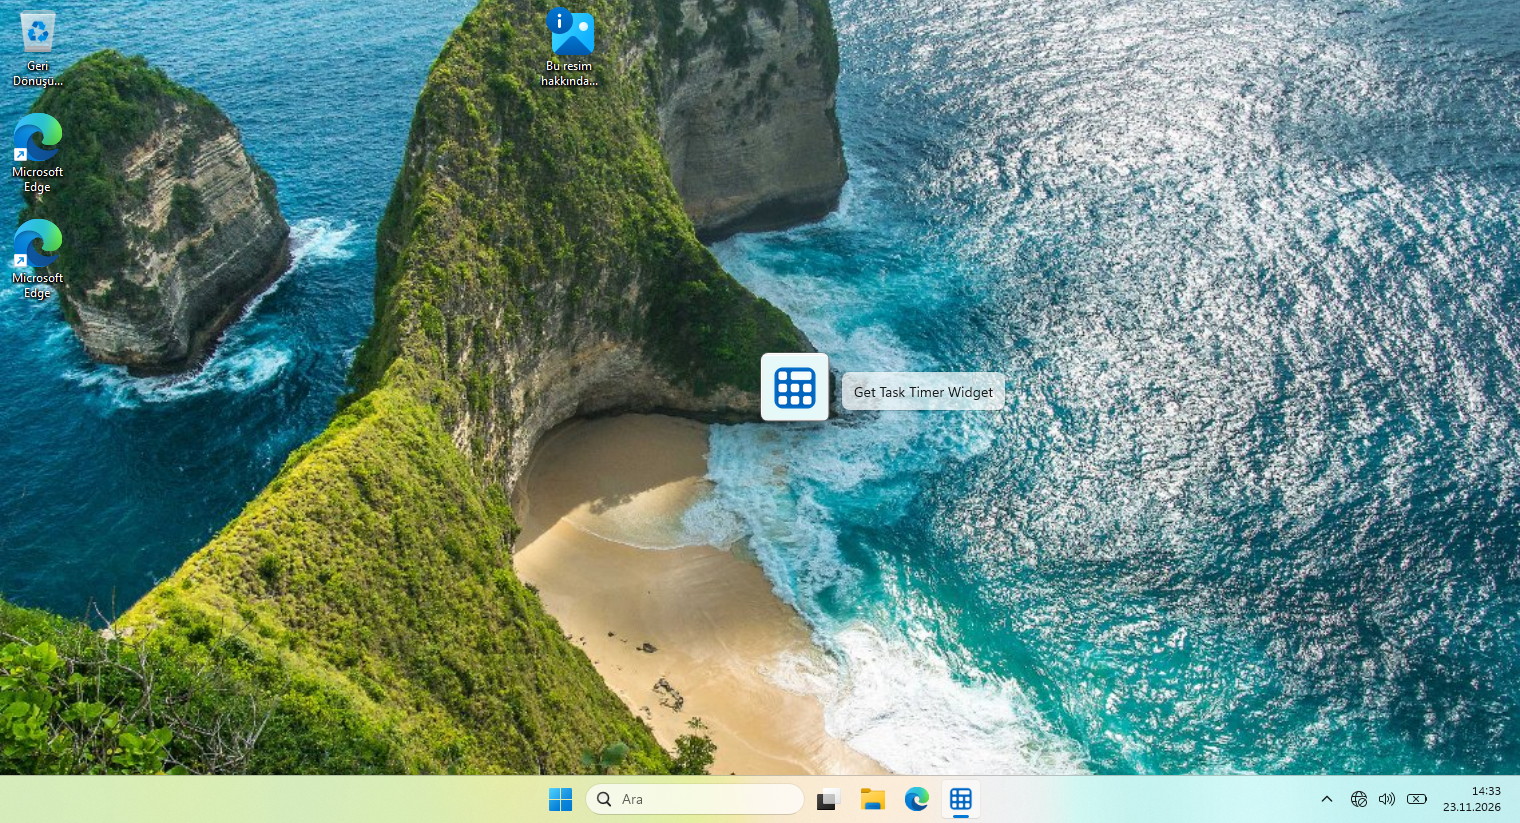
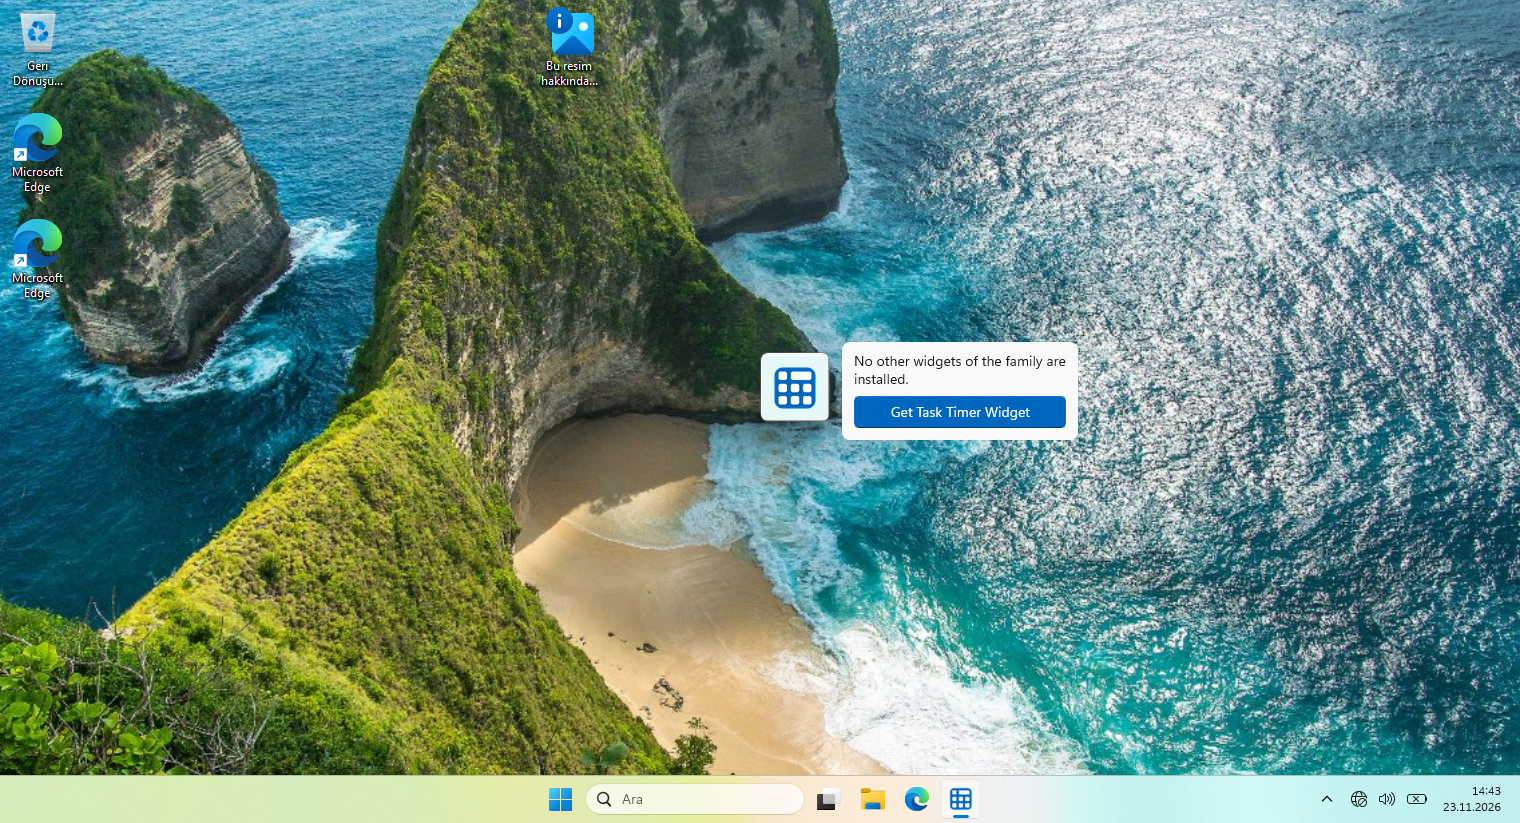
[MEW-5] Keep the 'no other family widget' notice and add a download button under it
Installed family widgets stay on the icon's sides; the notice next to the icon keeps its text and offers a 'Get <name>' button for each published family widget that is not installed.

Changed region(s): [[0.5566, 0.3949, 0.7112, 0.5468]]

diff --git a/src/MyEverythingWidget.App/MainWindow.xaml b/src/MyEverythingWidget.App/MainWindow.xaml
@@ -5,6 +5,7 @@
     xmlns:x="http://schemas.microsoft.com/winfx/2006/xaml"
     xmlns:l="using:MyEverythingWidget.App.Localization"
     xmlns:local="using:MyEverythingWidget.App"
+    xmlns:presentation="using:MyEverythingWidget.Presentation"
     xmlns:views="using:MyEverythingWidget.App.Views">
 
     <Window.SystemBackdrop>
@@ -247,14 +248,32 @@
                         Content="{x:Bind local:Bindings.SlotName(Family.Left), Mode=OneWay}"
                         Visibility="{x:Bind local:Bindings.VisibleWhenSlot(Family.Left), Mode=OneWay}"
                         Click="OnFamilySlotClicked" />
+                <!-- The notice that no other family widget is installed, with a download button for each published one. -->
                 <Border x:Name="FamilyEmptyCard"
                         Style="{StaticResource FamilySlotBorderStyle}"
-                        MaxWidth="220"
-                        Visibility="{x:Bind local:Bindings.VisibleUnless(Family.HasMembers), Mode=OneWay}">
-                    <TextBlock x:Name="FamilyEmpty"
-                               AutomationProperties.AutomationId="FamilyEmpty"
-                               Text="{l:Str Key=FamilyEmpty}"
-                               TextWrapping="Wrap" />
+                        MaxWidth="240"
+                        Visibility="{x:Bind local:Bindings.VisibleWhenAny(Family.ShowsNotice, Family.Downloads), Mode=OneWay}">
+                    <StackPanel Spacing="8">
+                        <TextBlock x:Name="FamilyEmpty"
+                                   AutomationProperties.AutomationId="FamilyEmpty"
+                                   Text="{l:Str Key=FamilyEmpty}"
+                                   TextWrapping="Wrap"
+                                   Visibility="{x:Bind local:Bindings.VisibleWhen(Family.ShowsNotice), Mode=OneWay}" />
+                        <ItemsControl ItemsSource="{x:Bind Family.Downloads, Mode=OneWay}">
+                            <ItemsControl.ItemTemplate>
+                                <DataTemplate x:DataType="presentation:FamilyOffer">
+                                    <Button Style="{StaticResource AccentButtonStyle}"
+                                            HorizontalAlignment="Stretch"
+                                            Margin="0,0,0,4"
+                                            Tag="{x:Bind MemberId}"
+                                            AutomationProperties.AutomationId="{x:Bind local:Bindings.DownloadId(MemberId)}"
+                                            AutomationProperties.Name="{x:Bind local:Bindings.DownloadText(Name)}"
+                                            Content="{x:Bind local:Bindings.DownloadText(Name)}"
+                                            Click="OnFamilyDownloadClicked" />
+                                </DataTemplate>
+                            </ItemsControl.ItemTemplate>
+                        </ItemsControl>
+                    </StackPanel>
                 </Border>
             </Canvas>
         </Popup>

diff --git a/src/MyEverythingWidget.Presentation/FamilyMenuViewModel.cs b/src/MyEverythingWidget.Presentation/FamilyMenuViewModel.cs
@@ -8,14 +8,19 @@ namespace MyEverythingWidget.Presentation;
 /// <param name="Edge">The side.</param>
 /// <param name="MemberId">The member's id.</param>
 /// <param name="Name">The member's display name.</param>
-/// <param name="IsInstalled">False when the slot offers the member for download.</param>
-public sealed record FamilySlot(Edge Edge, string MemberId, string Name, bool IsInstalled);
+public sealed record FamilySlot(Edge Edge, string MemberId, string Name);
+
+/// <summary>A published family widget that is not installed, offered for download.</summary>
+/// <param name="MemberId">The member's id.</param>
+/// <param name="Name">The member's display name.</param>
+public sealed record FamilyOffer(string MemberId, string Name);
 
 /// <summary>
 /// The compact icon's right-click menu (MEW-5): the installed widget family members on the icon's four sides.
 /// The list is read again every time the menu opens, so installed and removed members show up without a restart.
 /// Members opened from the menu follow the icon: they move with it and hide while it hides. Published family widgets
-/// that are not installed (<paramref name="known"/>) are offered for download on the edges left free.
+/// that are not installed (<paramref name="known"/>) are offered for download with a button under the notice that
+/// no other family widget is installed (T16).
 /// </summary>
 public sealed partial class FamilyMenuViewModel(
     IFamilyCatalog catalog,
@@ -25,7 +30,7 @@ public sealed partial class FamilyMenuViewModel(
 {
     private IReadOnlyDictionary<Edge, FamilyMember> _members = new Dictionary<Edge, FamilyMember>();
 
-    /// <summary>Store product ids of the members on the menu that are not installed.</summary>
+    /// <summary>Store product ids of the offered members that are not installed.</summary>
     private Dictionary<string, string> _toDownload = new(StringComparer.Ordinal);
 
     /// <summary>The members opened from the menu, and the side they were opened on.</summary>
@@ -51,6 +56,14 @@ public sealed partial class FamilyMenuViewModel(
     [ObservableProperty]
     public partial bool HasMembers { get; private set; }
 
+    /// <summary>The published family widgets that are not installed, each with a download button.</summary>
+    [ObservableProperty]
+    public partial IReadOnlyList<FamilyOffer> Downloads { get; private set; } = [];
+
+    /// <summary>Whether the notice card shows: no member is installed, or some can be downloaded.</summary>
+    [ObservableProperty]
+    public partial bool ShowsNotice { get; private set; }
+
     /// <summary>Reads the installed members and assigns their edges.</summary>
     /// <param name="cancellationToken">Cancels the lookup.</param>
     /// <returns>A task that completes when the slots are updated.</returns>
@@ -61,13 +74,14 @@ public sealed partial class FamilyMenuViewModel(
         var missing = known.Where(offer => !installedIds.Contains(offer.Member.Id)).ToList();
         _toDownload = missing.ToDictionary(offer => offer.Member.Id, offer => offer.StoreProductId, StringComparer.Ordinal);
 
-        // Installed members choose first; members to download take the edges left.
-        _members = EdgeAssignment.Assign(installed.Concat(missing.Select(offer => new InstalledMember(offer.Member, DateTimeOffset.MaxValue))));
+        _members = EdgeAssignment.Assign(installed);
         Top = Slot(Edge.Top);
         Right = Slot(Edge.Right);
         Bottom = Slot(Edge.Bottom);
         Left = Slot(Edge.Left);
         HasMembers = _members.Count > 0;
+        Downloads = missing.Select(offer => new FamilyOffer(offer.Member.Id, offer.Member.DisplayName)).ToList();
+        ShowsNotice = !HasMembers;
 
         // A member that was removed (or lost its edge) no longer follows the icon.
         foreach (var id in _opened.Keys.ToList())
@@ -85,17 +99,7 @@ public sealed partial class FamilyMenuViewModel(
     /// <returns>False when no member is on that side or Windows did not launch it.</returns>
     public async Task<bool> OpenAsync(Edge edge, PixelRect icon)
     {
-        if (!_members.TryGetValue(edge, out var member))
-        {
-            return false;
-        }
-
-        if (_toDownload.TryGetValue(member.Id, out var productId))
-        {
-            return await launcher.OpenStorePageAsync(productId).ConfigureAwait(true);
-        }
-
-        if (!await launcher.OpenAsync(member, edge, icon).ConfigureAwait(true))
+        if (!_members.TryGetValue(edge, out var member) || !await launcher.OpenAsync(member, edge, icon).ConfigureAwait(true))
         {
             return false;
         }
@@ -103,6 +107,12 @@ public sealed partial class FamilyMenuViewModel(
         _opened[member.Id] = edge;
         return true;
     }
+
+    /// <summary>Opens the Microsoft Store page of an offered family widget.</summary>
+    /// <param name="memberId">The offered member's id.</param>
+    /// <returns>False when that member is not offered or Windows did not open the Store.</returns>
+    public Task<bool> DownloadAsync(string memberId) =>
+        _toDownload.TryGetValue(memberId, out var productId) ? launcher.OpenStorePageAsync(productId) : Task.FromResult(false);
 
     /// <summary>The icon moved: the members opened from it move along to the same sides.</summary>
     /// <param name="icon">The icon's new window bounds in physical pixels.</param>
@@ -128,7 +138,5 @@ public sealed partial class FamilyMenuViewModel(
     }
 
     private FamilySlot? Slot(Edge edge) =>
-        _members.TryGetValue(edge, out var member)
-            ? new FamilySlot(edge, member.Id, member.DisplayName, !_toDownload.ContainsKey(member.Id))
-            : null;
+        _members.TryGetValue(edge, out var member) ? new FamilySlot(edge, member.Id, member.DisplayName) : null;
 }

diff --git a/tests/MyEverythingWidget.Presentation.Tests/FamilyMenuViewModelTests.cs b/tests/MyEverythingWidget.Presentation.Tests/FamilyMenuViewModelTests.cs
@@ -178,42 +178,46 @@ public sealed class FamilyMenuViewModelTests
     }
 
     [Fact]
-    public async Task KnownMemberThatIsNotInstalled_IsOfferedForDownload()
+    public async Task KnownMemberThatIsNotInstalled_IsOfferedForDownload_NextToTheNotice()
     {
+        // T16: the notice stays; a button under it leads to the download.
         var menu = new FamilyMenuViewModel(_catalog, _launcher, _hub, [KnownTaskTimer]);
 
         await menu.RefreshAsync(TestContext.Current.CancellationToken);
 
-        Assert.True(menu.HasMembers);
-        Assert.Equal(new FamilySlot(Edge.Right, "tasktimer", "Task Timer Widget", IsInstalled: false), menu.Right);
+        Assert.False(menu.HasMembers);
+        Assert.Null(menu.Right);
+        Assert.Equal([new FamilyOffer("tasktimer", "Task Timer Widget")], menu.Downloads);
+        Assert.True(menu.ShowsNotice);
     }
 
     [Fact]
-    public async Task OpeningAMemberThatIsNotInstalled_OpensItsStorePage()
+    public async Task DownloadingAnOffer_OpensItsStorePage()
     {
         var menu = new FamilyMenuViewModel(_catalog, _launcher, _hub, [KnownTaskTimer]);
         await menu.RefreshAsync(TestContext.Current.CancellationToken);
 
-        Assert.True(await menu.OpenAsync(Edge.Right, Icon));
+        Assert.True(await menu.DownloadAsync("tasktimer"));
 
         Assert.Equal(["9NF0N9LN349G"], _launcher.StorePages);
         Assert.Empty(_launcher.Opened);
     }
 
     [Fact]
-    public async Task KnownMemberThatIsInstalled_IsShownOnce_AsInstalled()
+    public async Task KnownMemberThatIsInstalled_IsShownOnItsEdge_AndNotOffered()
     {
         _catalog.Members.Add(TaskTimer());
         var menu = new FamilyMenuViewModel(_catalog, _launcher, _hub, [KnownTaskTimer]);
 
         await menu.RefreshAsync(TestContext.Current.CancellationToken);
 
-        Assert.Equal(new FamilySlot(Edge.Right, "tasktimer", "Task Timer Widget", IsInstalled: true), menu.Right);
-        Assert.Null(menu.Bottom);
+        Assert.Equal("Task Timer Widget", menu.Right?.Name);
+        Assert.Empty(menu.Downloads);
+        Assert.False(menu.ShowsNotice);
     }
 
     [Fact]
-    public async Task InstalledMembers_KeepTheirEdges_BeforeMembersToDownload()
+    public async Task OnlyMembersThatAreNotInstalled_AreOffered()
     {
         var notes = new KnownFamilyMember(new FamilyMember("notes", "Notes Widget", "notes-widget", Edge.Right), "9ABC");
         _catalog.Members.Add(TaskTimer());
@@ -222,6 +226,18 @@ public sealed class FamilyMenuViewModelTests
         await menu.RefreshAsync(TestContext.Current.CancellationToken);
 
         Assert.Equal("tasktimer", menu.Right?.MemberId);
-        Assert.Equal(new FamilySlot(Edge.Bottom, "notes", "Notes Widget", IsInstalled: false), menu.Bottom);
+        Assert.Equal([new FamilyOffer("notes", "Notes Widget")], menu.Downloads);
+        Assert.Null(menu.Bottom);
+    }
+
+    [Fact]
+    public async Task DownloadingSomethingThatIsNotOffered_DoesNothing()
+    {
+        _catalog.Members.Add(TaskTimer());
+        var menu = new FamilyMenuViewModel(_catalog, _launcher, _hub, [KnownTaskTimer]);
+        await menu.RefreshAsync(TestContext.Current.CancellationToken);
+
+        Assert.False(await menu.DownloadAsync("tasktimer"));
+        Assert.Empty(_launcher.StorePages);
     }
 }

diff --git a/src/MyEverythingWidget.App/Bindings.cs b/src/MyEverythingWidget.App/Bindings.cs
@@ -23,12 +23,17 @@ public static class Bindings
     public static Microsoft.UI.Xaml.Visibility VisibleWhenSlot(FamilySlot? slot) => VisibleWhen(slot is not null);
 
     /// <summary>The name of the family member on a side of the compact icon, or nothing.</summary>
-    public static string SlotName(FamilySlot? slot) => slot switch
-    {
-        null => string.Empty,
-        { IsInstalled: true } => slot.Name,
-        _ => Strings.FamilyGet(slot.Name),
-    };
+    public static string SlotName(FamilySlot? slot) => slot?.Name ?? string.Empty;
+
+    /// <summary>The text of the button that downloads the family widget <paramref name="name"/>.</summary>
+    public static string DownloadText(string name) => Strings.FamilyGet(name);
+
+    /// <summary>The automation id of the button that downloads the family widget <paramref name="memberId"/>.</summary>
+    public static string DownloadId(string memberId) => "FamilyGet_" + memberId;
+
+    /// <summary>Visible when the notice shows or there is anything to download.</summary>
+    public static Microsoft.UI.Xaml.Visibility VisibleWhenAny(bool showsNotice, IReadOnlyList<FamilyOffer> downloads) =>
+        VisibleWhen(showsNotice || downloads is { Count: > 0 });
 
     /// <summary>Maps a view-model severity to the InfoBar severity.</summary>
     public static InfoBarSeverity ToInfoBarSeverity(StatusSeverity severity) => severity switch

diff --git a/tests/MyEverythingWidget.UiTests/WidgetFamilyTests.cs b/tests/MyEverythingWidget.UiTests/WidgetFamilyTests.cs
@@ -271,11 +271,13 @@ public sealed class WidgetFamilyTests
         MoveIconTo(hub, workArea.Left + (workArea.Width / 2));
 
         RealMouse.RightClick(icon.BoundingRectangle.Center());
-        var slot = Wait.ForElement(() => hub.FindInPopups("FamilySlot_Right"));
+        var download = Wait.ForElement(() => hub.FindInPopups("FamilyGet_tasktimer"));
         GridDriver.WaitForUi();
         Artifacts.CaptureScreen("family-menu-download");
 
-        Assert.Equal("Get " + MemberName, slot.Name);
-        Assert.Null(hub.FindInPopups("FamilyEmpty") is { IsOffscreen: false } empty ? empty : null);
+        // T16: the notice stays, with a button that leads to the download.
+        Assert.Equal("Get " + MemberName, download.Name);
+        Assert.NotNull(hub.FindInPopups("FamilyEmpty"));
+        Assert.Null(hub.FindInPopups("FamilySlot_Right") is { IsOffscreen: false } slot ? slot : null);
     }
 }

diff --git a/src/MyEverythingWidget.App/MainWindow.Family.cs b/src/MyEverythingWidget.App/MainWindow.Family.cs
@@ -99,6 +99,16 @@ public sealed partial class MainWindow
         (FamilyEmptyCard, FamilyEdge.Right),
     ];
 
+    /// <summary>A download button: opens the family widget's Store page (T16).</summary>
+    private async void OnFamilyDownloadClicked(object sender, RoutedEventArgs e)
+    {
+        FamilyPopup.IsOpen = false;
+        if (sender is FrameworkElement { Tag: string memberId })
+        {
+            await Family.DownloadAsync(memberId);
+        }
+    }
+
     /// <summary>The icon was dragged: the members opened from it move along (MEW-5 Faz 4).</summary>
     private async void MoveFamilyMembersAlong() => await Family.FollowAsync(IconBounds());
 

diff --git a/docs/tasks/MEW-5/PHASE5.md b/docs/tasks/MEW-5/PHASE5.md
@@ -33,6 +33,7 @@ açılıp gösterilir.
 | 5.1 | Kurulu olmayan aile widget'ı menüde indirme düğmesi olarak görünür ve Store sayfasını açar. | 🟢 Tamamlandı |
 | 5.2 | Kurulu hal bu bilgisayarda hazırlanıp uygulama onunla açılarak gösterilir. | ⏳ Bekliyor (kullanıcının indirme menüsünü görmesi) |
 | 5.3 | UI testleri Sandbox dışında kullanıcının panosuna yazmaz. | 🟢 Tamamlandı |
+| 5.4 | "Aileden başka widget yüklü değil" bilgisi kalır; altında indirmeye yönlendiren düğme olur. | 🟢 Tamamlandı |
 
 ## Nasıl kontrol edilir
 
@@ -77,6 +78,21 @@ açılıp gösterilir.
 - **Çözüm:** `SandboxClipboard` panoya her erişimden önce Sandbox denetimini yapıyor; Sandbox dışında test atlanıyor.
 - **Dosyalar:** `tests/MyEverythingWidget.UiTests/Infrastructure/SandboxClipboard.cs`
 - **Testler:** Bu bilgisayarda `dotnet test`: 546 test, 0 hata (UI testleri atlandı).
+- **Durum:** 🟢 Tamamlandı.
+
+### 5.4 — "Aileden başka widget yüklü değil" bilgisi kalır; altında indirmeye yönlendiren düğme olur.
+
+- **Mevcut durum:** 5.1'de kurulu olmayan widget, bilgi metninin yerine kenarda "indir" düğmesi olarak çıkıyordu;
+  bilgi metni kaybolmuştu.
+- **Problem:** Gereksinim (T16): Bilgi metni kaldırılmaz; metin yine gösterilir ve indirmeye yönlendiren bir düğme
+  eklenir.
+- **Çözüm:** Kenarlarda yalnız kurulu widget'lar durur. Simgenin sağındaki bilgi kartı "Aileden başka widget yüklü
+  değil." metnini korur; altında kurulu olmayan her yayımlanmış widget için "{ad} uygulamasını indir" düğmesi
+  (`FamilyGet_<id>`) vardır, Store sayfasını açar. Bazı widget'lar kuruluysa metin gizlenir, eksikler için düğme kalır.
+- **Dosyalar:** `src/MyEverythingWidget.Presentation/FamilyMenuViewModel.cs` (`Downloads`, `ShowsNotice`,
+  `DownloadAsync`), `src/MyEverythingWidget.App/MainWindow.xaml`, `MainWindow.Family.cs`, `Bindings.cs`
+- **Testler:** `FamilyMenuViewModelTests` (5 yeni/güncellenmiş); Sandbox: `FamilyWidgetThatIsNotInstalled_IsOfferedForDownload`
+  (metin ve düğme birlikte) — `WidgetFamilyTests` 4/4 ve `PackagedAppTests` yeşil; görüntü `screens/family-menu-download.png`.
 - **Durum:** 🟢 Tamamlandı.
 
 ### Doğrulanmayan / dikkat edilmesi gereken
